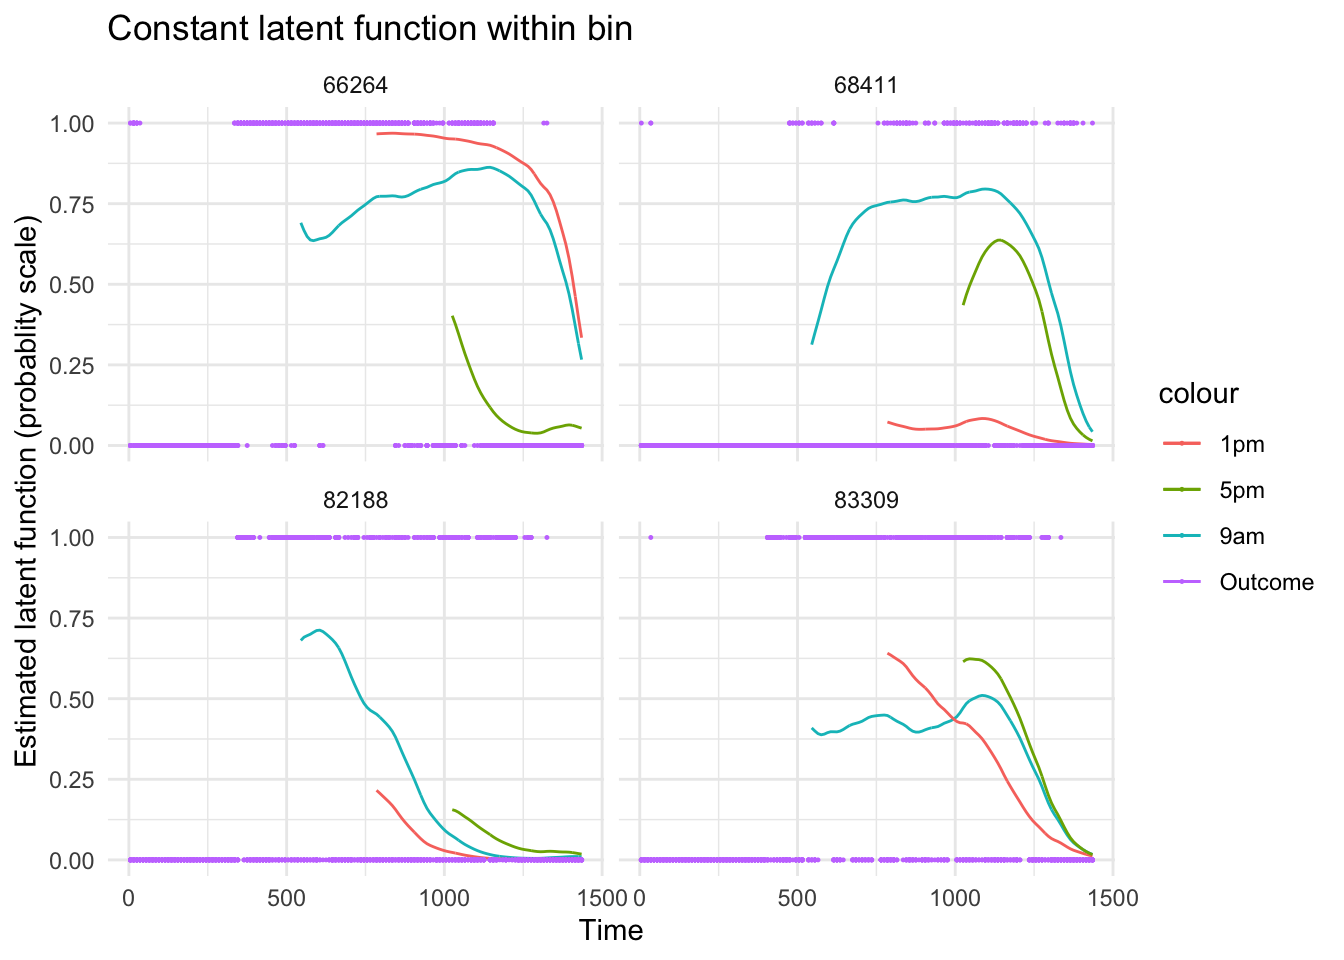
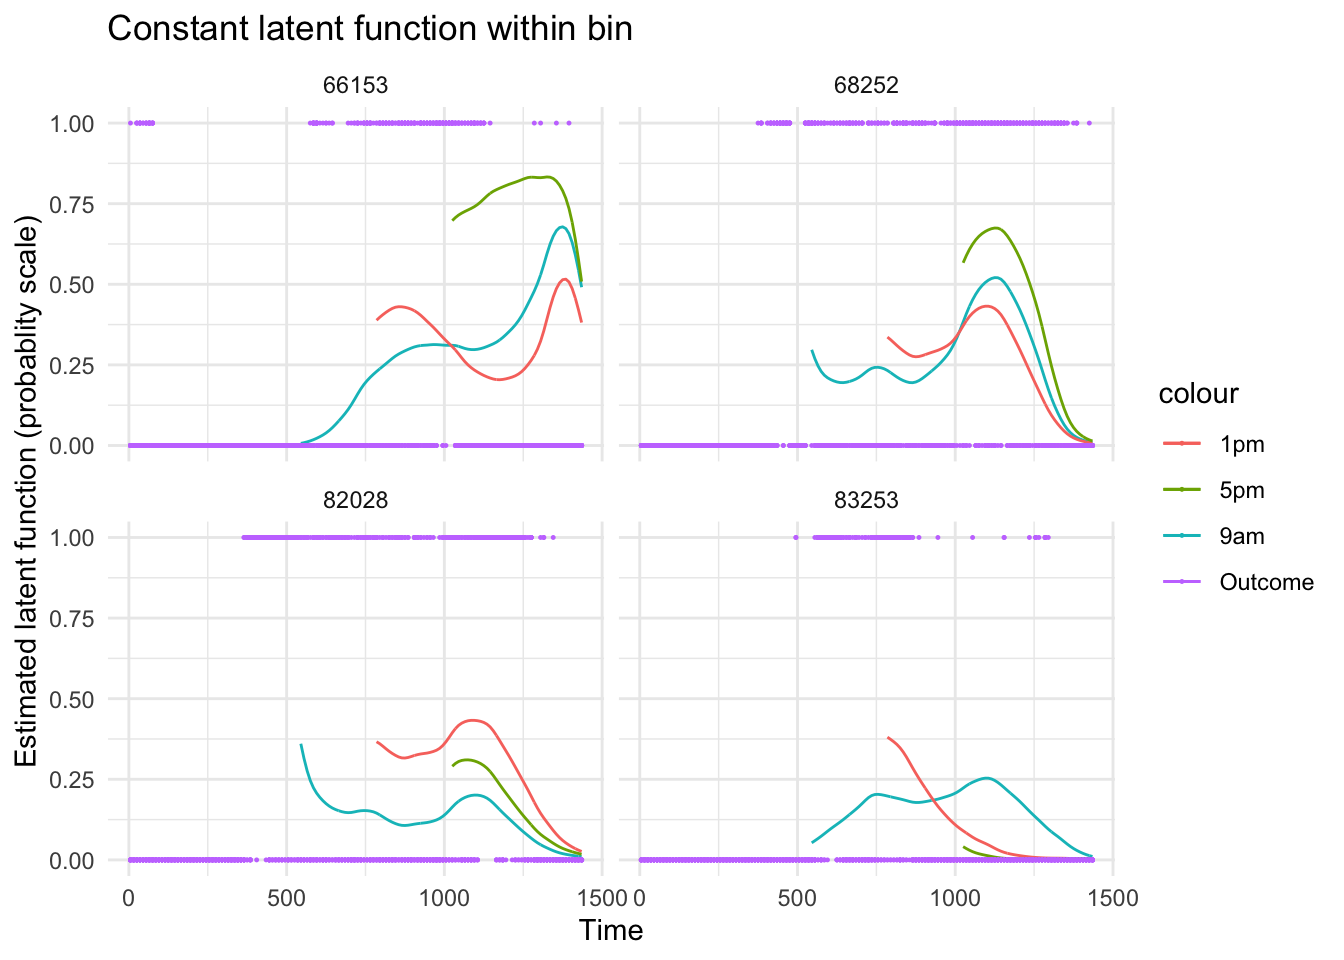
GLMMadaptive results

diff --git a/Docs/ProgressReport.html b/Docs/ProgressReport.html
@@ -821,6 +821,31 @@ subject.</li>
 here.</li>
 </ul>
 <pre class="r"><code>load(here(&quot;Data/ApplOutput_GLMMadaptive.RData&quot;))</code></pre>
+<pre class="r"><code>df_test_full2 &lt;- df_test_full %&gt;%
+  filter(id %in% rand_id2)%&gt;%
+  select(id, sind, Y)
+
+df_test_full2$pred_t540 &lt;- df_test_full2$pred_t780 &lt;- df_test_full2$pred_t1020 &lt;- NA 
+for(i in rand_id2){
+  df_test_full2[df_test_full2$id==i &amp; df_test_full2$sind&gt;540, &quot;pred_t540&quot;]&lt;- adglmm_pred_t540$newdata2 %&gt;% filter(id ==i) %&gt;% select(pred)
+  
+  df_test_full2[df_test_full2$id==i &amp; df_test_full2$sind&gt;780, &quot;pred_t780&quot;]&lt;- adglmm_pred_t780$newdata2 %&gt;% filter(id ==i) %&gt;% select(pred)
+  
+  df_test_full2[df_test_full2$id==i &amp; df_test_full2$sind&gt;1020, &quot;pred_t1020&quot;]&lt;- adglmm_pred_t1020$newdata2 %&gt;% filter(id ==i) %&gt;% select(pred)
+}
+
+# colSums(is.na(df_test_full2))</code></pre>
+<pre class="r"><code>df_test_full2 %&gt;% 
+  mutate_at(vars(pred_t540, pred_t780, pred_t1020), 
+            function(x)exp(x)/(1+exp(x))) %&gt;%
+  ggplot()+
+    geom_line(aes(x=sind, y = pred_t540, col = &quot;9am&quot;))+
+    geom_line(aes(x=sind, y = pred_t780, col = &quot;1pm&quot;))+
+    geom_line(aes(x=sind, y = pred_t1020, col = &quot;5pm&quot;))+
+    geom_point(aes(x=sind, y = Y, col = &quot;Outcome&quot;), size = 0.2)+
+    facet_wrap(~id)+
+    labs(x = &quot;Time&quot;, y = &quot;Estimated latent function (probablity scale)&quot;)</code></pre>
+<p><img src="ProgressReport_files/figure-html/unnamed-chunk-35-1.png" width="672" /></p>
 <pre class="r"><code># up to 540
 auc_t540_adglmm &lt;- adglmm_pred_t540$newdata2 %&gt;%
   filter(!id %in% skip_id) %&gt;%
@@ -973,21 +998,21 @@ Time spent on model fitting
 9am-1pm
 </td>
 <td style="text-align:right;">
-0.7179
+0.7153
 </td>
 <td style="text-align:right;">
 </td>
 <td style="text-align:right;">
 </td>
 <td style="text-align:right;">
-0.7178
+0.7152
 </td>
 <td style="text-align:right;">
 </td>
 <td style="text-align:right;">
 </td>
 <td style="text-align:right;">
-0.6791
+0.6807
 </td>
 <td style="text-align:right;">
 </td>
@@ -999,26 +1024,26 @@ Time spent on model fitting
 1pm-5pm
 </td>
 <td style="text-align:right;">
-0.6188
+0.6228
 </td>
 <td style="text-align:right;">
-0.7463
-</td>
-<td style="text-align:right;">
-</td>
-<td style="text-align:right;">
-0.6188
-</td>
-<td style="text-align:right;">
-0.7461
+0.7379
 </td>
 <td style="text-align:right;">
 </td>
 <td style="text-align:right;">
-0.6284
+0.6227
 </td>
 <td style="text-align:right;">
-0.7264
+0.7377
+</td>
+<td style="text-align:right;">
+</td>
+<td style="text-align:right;">
+0.6275
+</td>
+<td style="text-align:right;">
+0.7223
 </td>
 <td style="text-align:right;">
 </td>
@@ -1028,31 +1053,31 @@ Time spent on model fitting
 5pm-9pm
 </td>
 <td style="text-align:right;">
-0.5915
+0.6000
 </td>
 <td style="text-align:right;">
-0.6340
+0.6390
 </td>
 <td style="text-align:right;">
-0.7127
+0.7079
 </td>
 <td style="text-align:right;">
-0.5915
+0.6000
 </td>
 <td style="text-align:right;">
-0.6339
+0.6389
 </td>
 <td style="text-align:right;">
-0.7127
+0.7079
 </td>
 <td style="text-align:right;">
-0.5828
+0.5917
 </td>
 <td style="text-align:right;">
-0.6374
+0.6447
 </td>
 <td style="text-align:right;">
-0.6798
+0.6853
 </td>
 </tr>
 </tbody>
